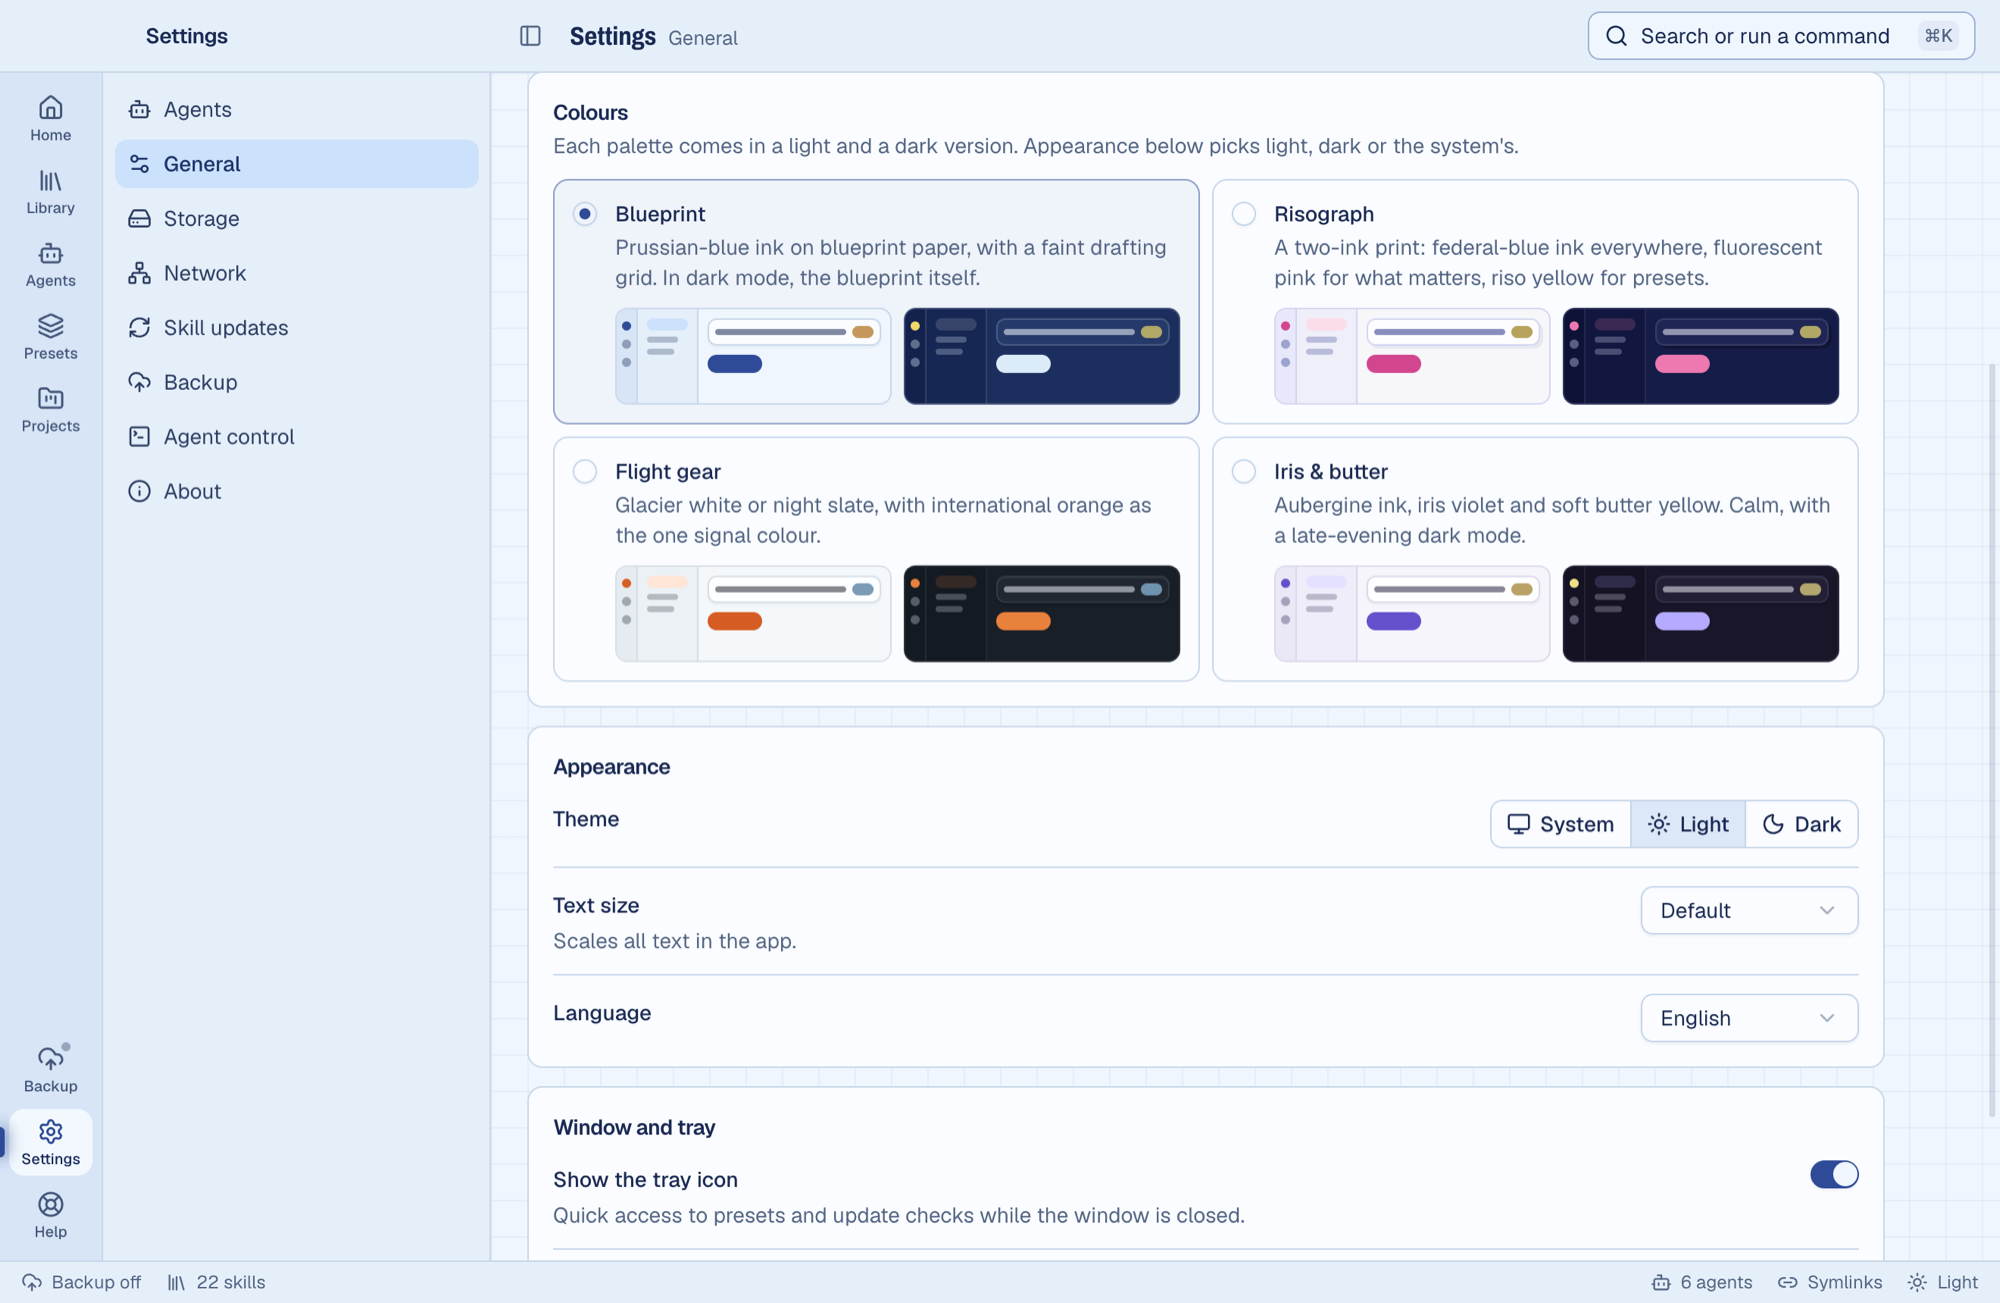
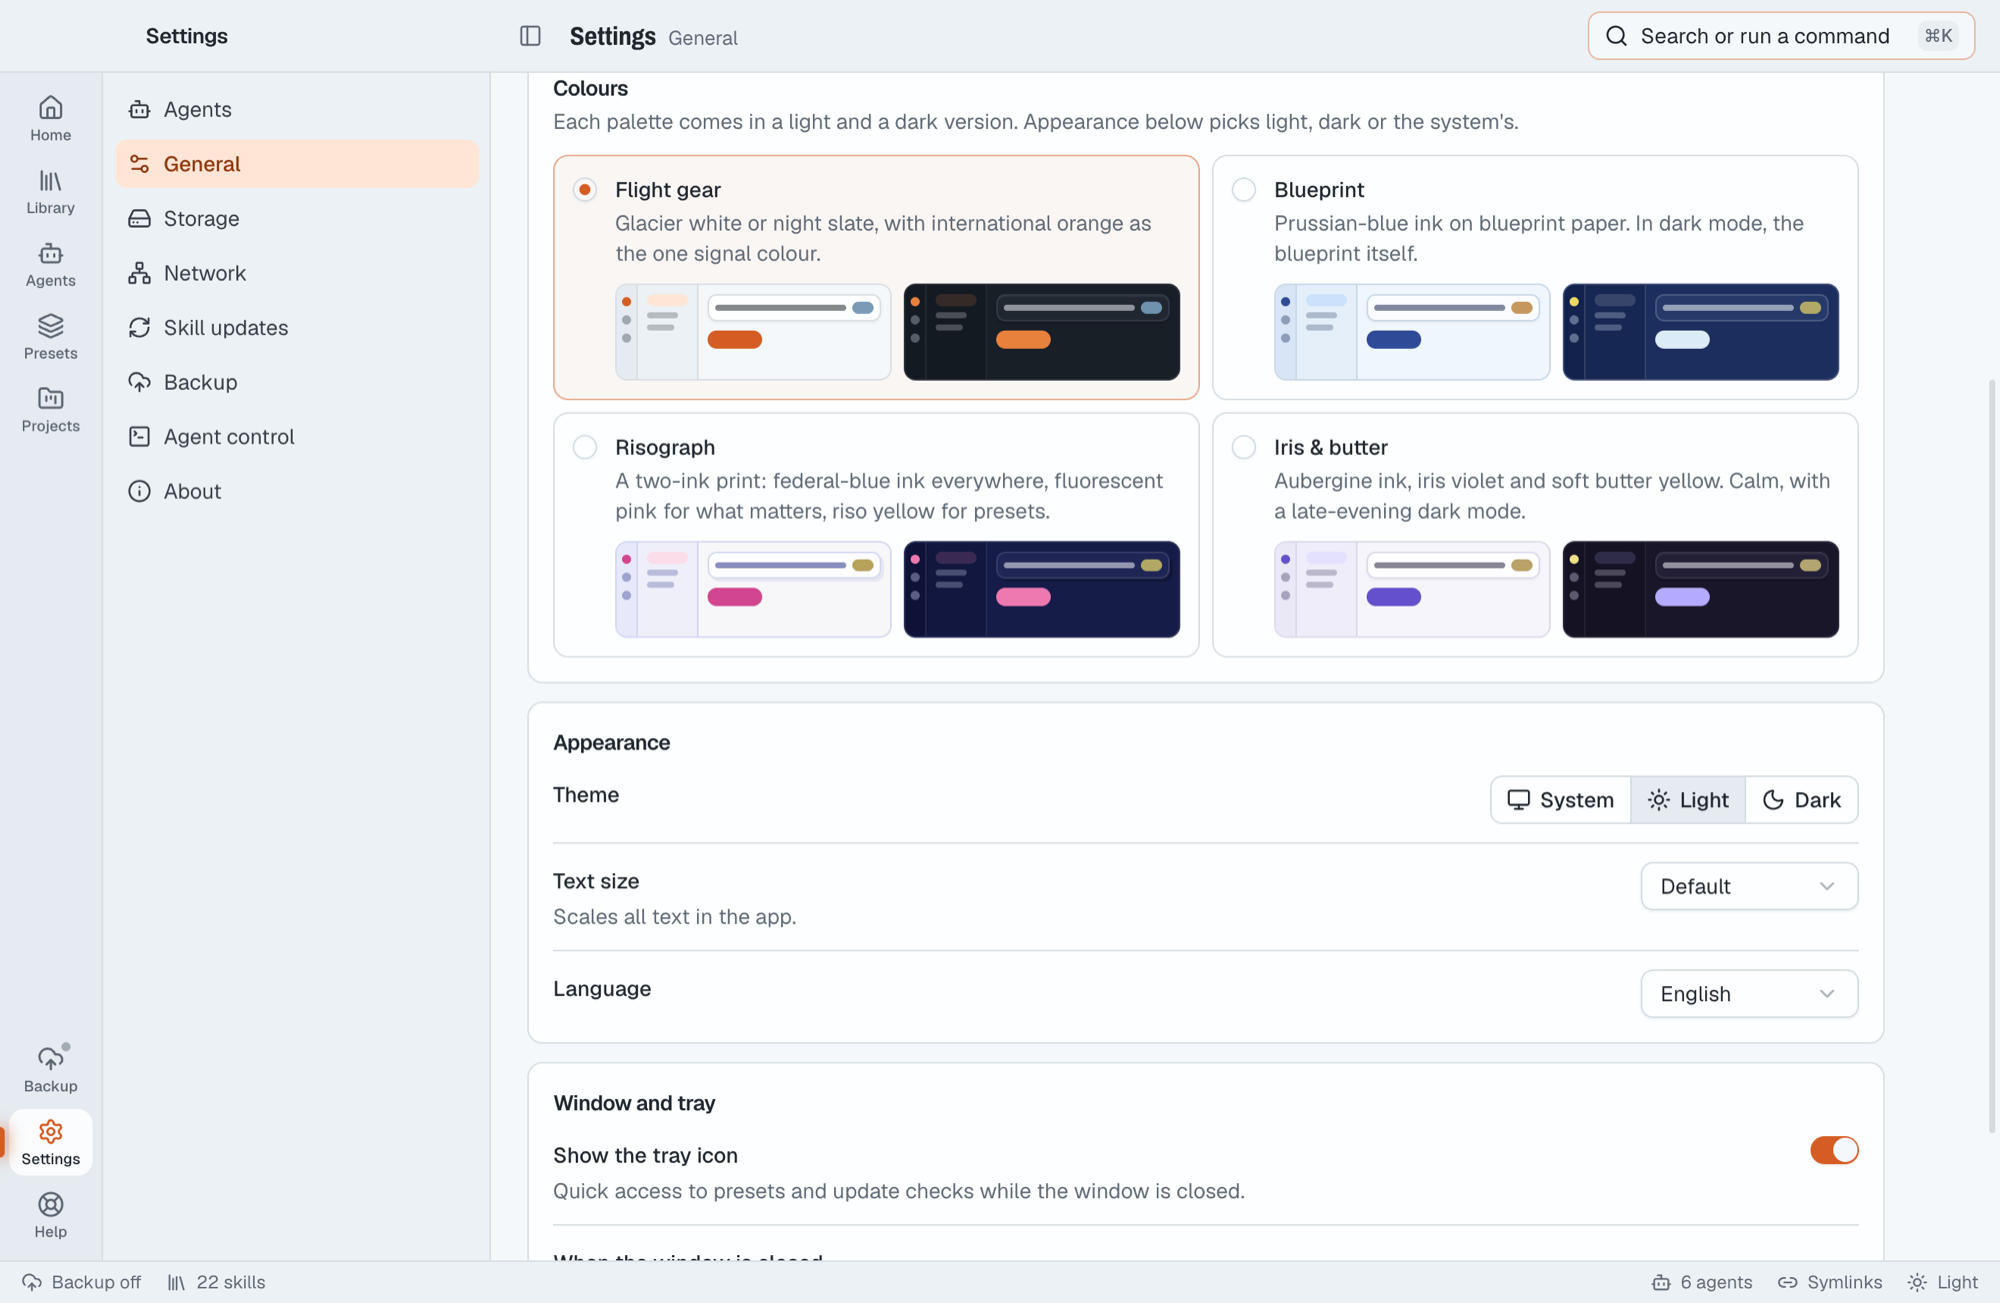
docs: retake screenshots in flight gear

diff --git a/docs/FEATURES.md b/docs/FEATURES.md
@@ -237,7 +237,7 @@ For planned work and detailed status, see [PLAN.md](PLAN.md) and [TODO.md](../TO
   activity and recently updated skills.
 - Command palette (`⌘K` / `Ctrl+K`) for skills, presets, projects, agents and actions, including
   "Open a skill in the editor" (`⌘P` / `Ctrl+P`).
-- Four colour palettes (Blueprint, Risograph, Flight gear, Iris & butter), each in light and dark, plus light, dark or system mode. Pick them in Settings (with a preview of each) or from the status bar; the choice is remembered and applied before the window first draws. Four text sizes.
+- Four colour palettes (Flight gear, the default, then Blueprint, Risograph and Iris & butter), each in light and dark, plus light, dark or system mode. Pick them in Settings (with a preview of each) or from the status bar; the choice is remembered and applied before the window first draws. Four text sizes.
 - Tray icon, and a choice of what the close button does: ask, keep in tray or quit.
 - Single instance, remembered window size, links open in your browser.
 - Activity history, rotating logs, export logs as a zip, copy diagnostics, crash notice.

diff --git a/README.md b/README.md
@@ -44,11 +44,11 @@ itself.
 
 ![The marketplace: popular skills with one-click install](docs/screenshots/marketplace.png)
 
-**Colours.** Four palettes (Blueprint, Risograph, Flight gear, Iris & butter), each with a light and a dark version. Pick one in Settings or from the status bar; Loadout remembers it.
+**Colours.** Four palettes (Flight gear, Blueprint, Risograph, Iris & butter), each with a light and a dark version. Pick one in Settings or from the status bar; Loadout remembers it.
 
 ![The palette picker in Settings: four palettes, each shown in light and dark](docs/screenshots/palettes.png)
 
-![The library in Blueprint's dark mode](docs/screenshots/library-dark.png)
+![The library in Flight gear's dark mode](docs/screenshots/library-dark.png)
 
 ## Features
 
